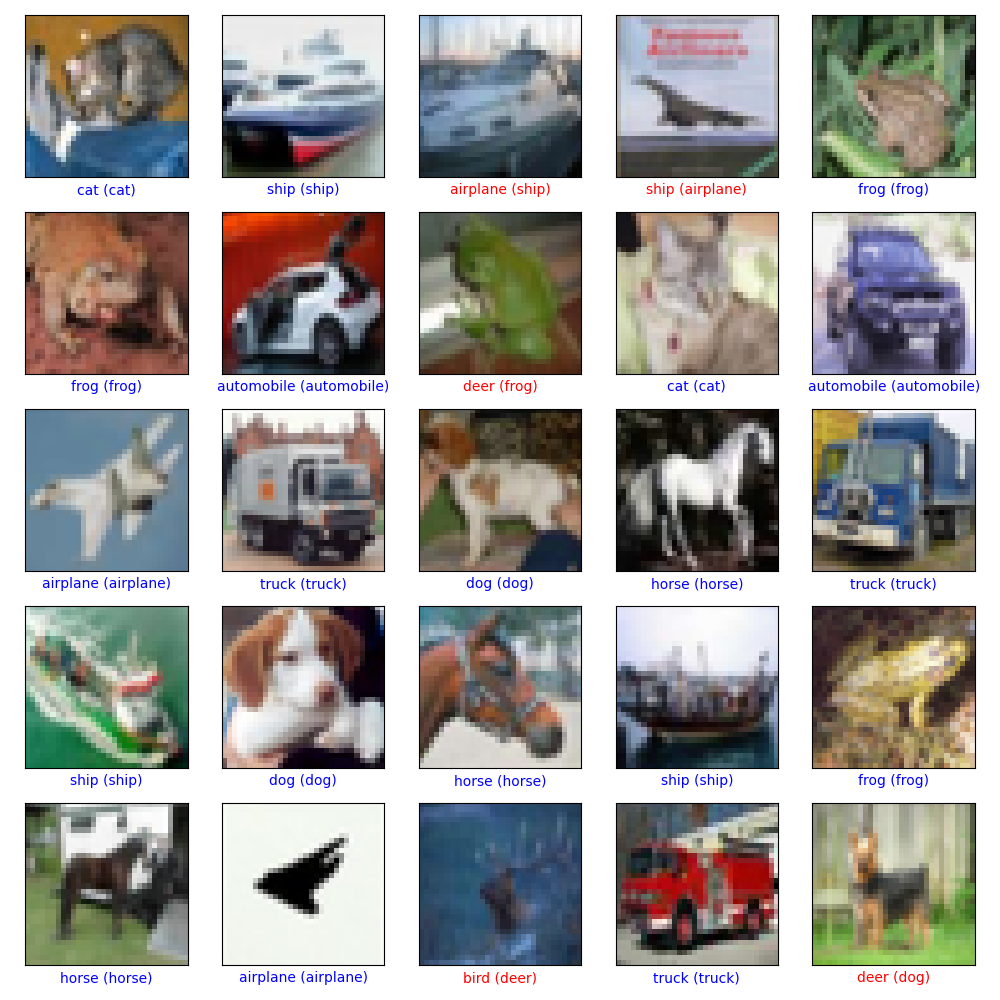
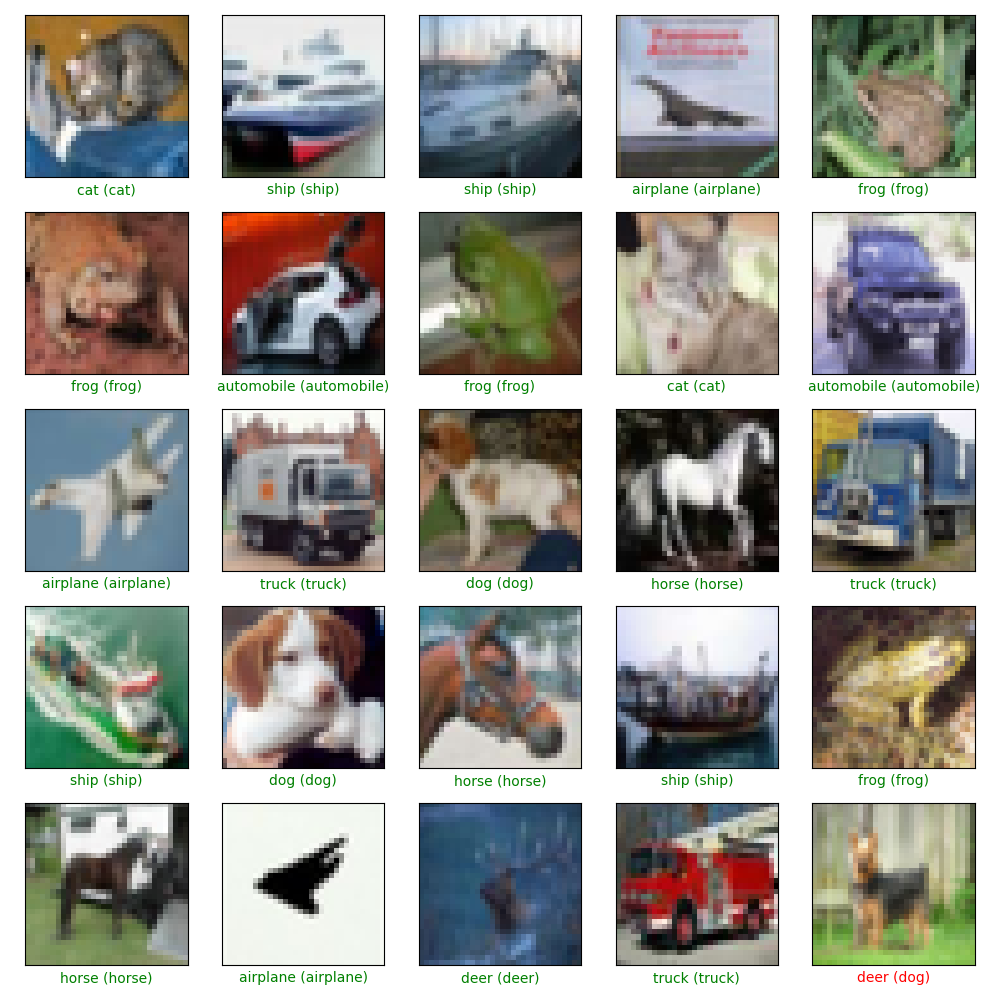
Clean up project structure, update documentation and commit latest 30-epoch training artifacts

diff --git a/README.md b/README.md
@@ -1,51 +1,76 @@
-# CNN Image Classifier
+# 🧠 CNN Image Classifier with TensorFlow & Streamlit
 
-A simple but polished demo project for image classification using a TensorFlow/Keras Convolutional Neural Network (CNN) and Streamlit. The project is structured using Jupyter Notebooks for interactive execution and learning.
+A polished, end-to-end demo project for image classification. This project uses a custom Convolutional Neural Network (CNN) built with TensorFlow/Keras to classify images into one of the 10 CIFAR-10 categories. The entire workflow is neatly structured inside Jupyter Notebooks for an interactive, educational experience.
 
-## Project Structure
+---
+
+## 📂 Project Structure
+
+This repository uses a **Jupyter Notebook First** approach. The Python scripts (`.py`) are automatically generated by the notebooks.
+
 ```text
 tensorflow_cnn_streamlit_demo/
-├── app.ipynb                # Notebook to generate and run Streamlit UI
-├── train_model.ipynb        # Notebook to train the CNN model
-├── utils/
-│   └── prediction.ipynb     # Notebook to generate utility functions
-├── requirements.txt         # Project dependencies
-└── README.md
+├── prediction_utils.ipynb   # 1. Generates prediction functions
+├── train_model.ipynb        # 2. Builds and trains the CNN model
+├── app.ipynb                # 3. Generates and runs the Web UI
+├── requirements.txt         # Pinned project dependencies
+├── README.md                # Project documentation
+├── models/                  # Saved CNN models (.keras)
+└── assets/                  # Training charts and UI diagrams
 ```
-*(Note: `app.py`, `utils/prediction.py`, `models/`, and `assets/` are automatically generated when you run the notebooks).*
+> **Note:** Files like `app.py` and `utils/prediction.py` are ignored by Git because they are dynamically created when you run the notebooks.
 
-## Setup Instructions
+---
 
-1. **Install the required dependencies:**
+## 🚀 How to Run the Project (Step-by-Step)
+
+Follow these exact steps to clone the project, generate the necessary files, and start the web interface.
+
+### Step 0: Clone and Install Dependencies
+Open your terminal and run:
 ```bash
+git clone https://github.com/ElysiaTheElysier/Simple_CNN.git
+cd Simple_CNN
 pip install -r requirements.txt
 ```
 
-2. **Generate Prediction Utilities:**
-Open `utils/prediction.ipynb` and run all cells. This will automatically generate the `utils/prediction.py` file which is needed for the Streamlit app.
+### Step 1: Generate Utilities
+Open the **`prediction_utils.ipynb`** notebook in VS Code or Jupyter.
+- Click **Run All Cells**.
+- *This creates the `utils/prediction.py` file required for the Streamlit app.*
 
-3. **Train the Model:**
-Open `train_model.ipynb` and run all cells. This will:
-- Download the CIFAR-10 dataset.
-- Build an enhanced CNN model (with Data Augmentation, 3 Conv2D layers, and Dropout).
-- Train the model for up to 30 epochs (using Early Stopping to prevent overfitting).
-- Save the trained model to `models/cnn_cifar10_model.keras`.
-- Generate training metrics charts in the `assets/` folder.
+### Step 2: Train the Model (Optional but Recommended)
+Open the **`train_model.ipynb`** notebook.
+- Click **Run All Cells**.
+- *This downloads the CIFAR-10 dataset, trains the CNN (up to 30 epochs with Early Stopping), saves the best weights to `models/cnn_cifar10_model.keras`, and updates the charts in the `assets/` folder.*
+- *If you skip this step, the app will use the pre-trained model included in this repository.*
 
-4. **Run the Streamlit App:**
-Open `app.ipynb` and run all cells. This will generate `app.py` and execute the Streamlit server automatically. Alternatively, if `app.py` has already been generated, you can directly run:
-```bash
-streamlit run app.py
-```
+### Step 3: Launch the Web UI
+Open the **`app.ipynb`** notebook.
+- Click **Run All Cells**.
+- *This generates the `app.py` script and automatically executes `!streamlit run app.py`.*
+- The Streamlit web interface will open in your browser at `http://localhost:8501`.
 
-## Expected Local URL
-The application will be accessible at:
-http://localhost:8501
+*(Alternatively, after running Step 1 and Step 3's notebook once, you can just type `streamlit run app.py` directly in your terminal).*
 
-## Model Details
-- **Dataset:** CIFAR-10 (60,000 32x32 color images in 10 classes)
-- **Architecture:** Convolutional Neural Network (CNN) with Data Augmentation (RandomFlip, RandomRotation), 3x Conv2D layers (32, 64, 128 filters), MaxPooling, Dense (128 units), and Dropout (0.4).
-- **Training Strategy:** Max 30 epochs with Early Stopping (patience=4) based on validation loss.
-- **Preprocessing:** Images uploaded via the app are resized to 32x32 pixels, converted to RGB, and normalized to 0-1 scale.
+---
 
-**Note:** This app is designed for demonstration purposes. It performs best on images resembling the CIFAR-10 dataset classes.
+## 🛠️ Troubleshooting
+
+- **VS Code Notebook Hangs / Keeps Loading:** If the Jupyter kernel in VS Code gets stuck on the first run, click the **Restart Kernel** button at the top of the notebook, hit **Clear All Outputs**, and try again.
+- **Missing Module Error:** If Streamlit crashes with `ModuleNotFoundError: No module named 'utils.prediction'`, it means you skipped Step 1. Go back and run `prediction_utils.ipynb` first.
+- **Old Code Running / Deprecation Warnings:** If you pull new updates from Git but the app behaves strangely, make sure you **Run All Cells** in the notebooks again so they can overwrite the old `.py` files with the newest code.
+
+---
+
+## 🤖 Model Details
+
+- **Dataset:** CIFAR-10 (60,000 images, 32x32 RGB, 10 classes).
+- **Architecture:** 
+  - **Data Augmentation:** Random Flip (Horizontal), Random Rotation (0.05) to improve generalization.
+  - **Feature Extraction:** 3x `Conv2D` layers (32, 64, 128 filters) paired with `MaxPooling2D`.
+  - **Classification:** `Flatten` -> `Dense(128)` -> `Dropout(0.4)` -> `Dense(10, Softmax)`.
+- **Training Strategy:** Adam optimizer, Sparse Categorical Crossentropy loss. Trains for a maximum of 30 epochs, utilizing **Early Stopping** (patience=4) to prevent overfitting and capture the best weights.
+
+---
+*Developed as a polished student project demo for exploring Deep Learning and Web Interfaces.*